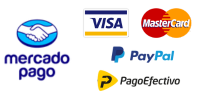
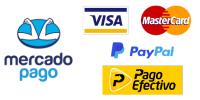
carousel y footer acabado con responsive

diff --git a/client_users/src/components/footer/Footer.jsx b/client_users/src/components/footer/Footer.jsx
@@ -1,5 +1,4 @@
 import Logo from "../../assets/images/LogoCompletoBlanco.png"
-import Henry from "../../assets/images/HenryLogo.png"
 import MetodosPago from '../../assets/images/MetodosDePago.png';
 import { FontAwesomeIcon } from '@fortawesome/react-fontawesome'
 import { faMapLocationDot, faLocationDot, faEnvelope, faPhone, faClock, faCalendar, faMoneyBill1Wave } from '@fortawesome/free-solid-svg-icons'
@@ -12,12 +11,20 @@ const Footer = () => {
           <section className="logo">
             <img src={Logo} alt="" />
             <div className="redes">
-              <svg fill="#000000" width="800px" height="800px" viewBox="0 0 24 24" xmlns="http://www.w3.org/2000/svg">
-                <path d="M12 2.03998C6.5 2.03998 2 6.52998 2 12.06C2 17.06 5.66 21.21 10.44 21.96V14.96H7.9V12.06H10.44V9.84998C10.44 7.33998 11.93 5.95998 14.22 5.95998C15.31 5.95998 16.45 6.14998 16.45 6.14998V8.61998H15.19C13.95 8.61998 13.56 9.38998 13.56 10.18V12.06H16.34L15.89 14.96H13.56V21.96C15.9164 21.5878 18.0622 20.3855 19.6099 18.57C21.1576 16.7546 22.0054 14.4456 22 12.06C22 6.52998 17.5 2.03998 12 2.03998Z"/>
-              </svg>
-              <svg width="800px" height="800px" viewBox="0 0 24 24" fill="none" xmlns="http://www.w3.org/2000/svg">
-                <path fill-rule="evenodd" clip-rule="evenodd" d="M2 6C2 3.79086 3.79086 2 6 2H18C20.2091 2 22 3.79086 22 6V18C22 20.2091 20.2091 22 18 22H6C3.79086 22 2 20.2091 2 18V6ZM6 4C4.89543 4 4 4.89543 4 6V18C4 19.1046 4.89543 20 6 20H18C19.1046 20 20 19.1046 20 18V6C20 4.89543 19.1046 4 18 4H6ZM12 9C10.3431 9 9 10.3431 9 12C9 13.6569 10.3431 15 12 15C13.6569 15 15 13.6569 15 12C15 10.3431 13.6569 9 12 9ZM7 12C7 9.23858 9.23858 7 12 7C14.7614 7 17 9.23858 17 12C17 14.7614 14.7614 17 12 17C9.23858 17 7 14.7614 7 12ZM17.5 8C18.3284 8 19 7.32843 19 6.5C19 5.67157 18.3284 5 17.5 5C16.6716 5 16 5.67157 16 6.5C16 7.32843 16.6716 8 17.5 8Z" fill="#000000"/>
-              </svg>
+              <a href="https://www.facebook.com" target="_blank">
+                <svg fill="#D5A129" width="32" height="30" viewBox="0 0 24 24" xmlns="http://www.w3.org/2000/svg">
+                  <path d="M12 2.03998C6.5 2.03998 2 6.52998 2 12.06C2 17.06 5.66 21.21 10.44 21.96V14.96H7.9V12.06H10.44V9.84998C10.44 7.33998 11.93 5.95998 14.22 5.95998C15.31 5.95998 16.45 6.14998 16.45 6.14998V8.61998H15.19C13.95 8.61998 13.56 9.38998 13.56 10.18V12.06H16.34L15.89 14.96H13.56V21.96C15.9164 21.5878 18.0622 20.3855 19.6099 18.57C21.1576 16.7546 22.0054 14.4456 22 12.06C22 6.52998 17.5 2.03998 12 2.03998Z"/>
+                </svg>
+              </a>
+              <a href="https://www.instagram.com" target="_blank">
+                <svg width="32" height="30" viewBox="0 0 192 192" xmlns="http://www.w3.org/2000/svg" fill="none"><path stroke="#D5A129" stroke-width="12" d="M96 162c-14.152 0-24.336-.007-32.276-.777-7.849-.761-12.87-2.223-16.877-4.741a36 36 0 0 1-11.33-11.329c-2.517-4.007-3.98-9.028-4.74-16.877C30.007 120.336 30 110.152 30 96c0-14.152.007-24.336.777-32.276.76-7.849 2.223-12.87 4.74-16.877a36 36 0 0 1 11.33-11.33c4.007-2.517 9.028-3.98 16.877-4.74C71.663 30.007 81.847 30 96 30c14.152 0 24.336.007 32.276.777 7.849.76 12.87 2.223 16.877 4.74a36 36 0 0 1 11.329 11.33c2.518 4.007 3.98 9.028 4.741 16.877.77 7.94.777 18.124.777 32.276 0 14.152-.007 24.336-.777 32.276-.761 7.849-2.223 12.87-4.741 16.877a36 36 0 0 1-11.329 11.329c-4.007 2.518-9.028 3.98-16.877 4.741-7.94.77-18.124.777-32.276.777Z"/><circle cx="96" cy="96" r="30" stroke="#D5A129" stroke-width="12"/><circle cx="135" cy="57" r="9" fill="#D5A129"/></svg>
+              </a>
+              <a href="https://www.twitter.com" target="_blank">
+                <svg fill="#D5A129" xmlns="http://www.w3.org/2000/svg" preserveAspectRatio="xMidYMid" width="28" height="25"
+                    viewBox="0 0 31.812 26">
+                    <path d="M20.877,2.000 C22.519,2.000 24.382,2.652 25.426,3.738 C26.724,3.486 27.949,3.025 29.050,2.386 C28.625,3.687 27.718,4.779 26.540,5.469 C27.693,5.332 28.797,5.035 29.820,4.590 C29.054,5.707 28.087,6.690 26.971,7.477 C26.981,7.715 26.987,7.955 26.987,8.195 C26.987,15.562 21.445,24.000 10.939,24.000 C7.715,24.000 4.507,23.133 1.982,21.551 C2.428,21.605 2.883,21.631 3.343,21.631 C6.019,21.631 8.482,20.740 10.439,19.242 C7.937,19.199 5.827,17.586 5.103,15.373 C5.450,15.437 5.810,15.473 6.178,15.473 C6.696,15.473 7.203,15.406 7.681,15.277 C5.068,14.768 3.100,12.514 3.100,9.813 C3.100,9.787 3.100,9.764 3.100,9.740 C3.871,10.158 4.750,10.410 5.687,10.440 C4.154,9.437 3.147,7.734 3.147,5.799 C3.147,4.777 3.428,3.818 3.919,2.998 C6.735,6.367 10.945,8.588 15.693,8.822 C15.594,8.414 15.543,7.984 15.543,7.553 C15.543,4.473 17.721,2.000 20.877,2.000 M29.820,4.590 L29.825,4.590 M20.877,-0.000 C17.033,-0.000 14.060,2.753 13.614,6.552 C10.425,5.905 7.524,4.204 5.440,1.711 C5.061,1.257 4.503,0.998 3.919,0.998 C3.867,0.998 3.815,1.000 3.763,1.004 C3.123,1.055 2.547,1.413 2.216,1.966 C1.525,3.122 1.159,4.447 1.159,5.799 C1.159,6.700 1.321,7.579 1.625,8.400 C1.300,8.762 1.113,9.238 1.113,9.740 L1.113,9.813 C1.113,11.772 1.882,13.589 3.160,14.952 C3.087,15.294 3.103,15.655 3.215,15.998 C3.657,17.348 4.459,18.510 5.499,19.396 C4.800,19.552 4.079,19.631 3.343,19.631 C2.954,19.631 2.577,19.609 2.222,19.565 C2.141,19.556 2.061,19.551 1.981,19.551 C1.148,19.551 0.391,20.078 0.108,20.886 C-0.202,21.770 0.140,22.753 0.932,23.249 C3.764,25.023 7.318,26.000 10.939,26.000 C17.778,26.000 22.025,22.843 24.383,20.195 C27.243,16.984 28.907,12.718 28.972,8.455 C29.899,7.682 30.717,6.790 31.410,5.792 C31.661,5.458 31.810,5.041 31.810,4.590 C31.810,3.909 31.473,3.308 30.958,2.946 C31.181,2.176 30.925,1.342 30.303,0.833 C29.940,0.537 29.496,0.386 29.049,0.386 C28.708,0.386 28.365,0.474 28.056,0.654 C27.391,1.040 26.680,1.344 25.931,1.562 C24.555,0.592 22.688,-0.000 20.877,-0.000 L20.877,-0.000 Z"/>
+                </svg>
+              </a>
             </div>
           </section>
           <section className="information">

diff --git a/client_users/src/components/footer/Footer.css b/client_users/src/components/footer/Footer.css
@@ -1,27 +1,46 @@
 footer {
     width: 100%;
-    padding: 40px;
+    padding: 50px;
+    background-color: rgb(10, 10, 10);
+    color: rgb(213,161,41);
+    /* box-shadow: 1px 1px 8px rgb(148, 146, 146) inset; */
 }
 
 .container-footer {
     /* border: 1px solid red; */
-    display: grid;
-    grid-template-columns: repeat(4, 1fr);
+    display: flex;
+    flex-direction: row;
+    justify-content: space-between;
+    flex-wrap: wrap;
+    width: 90%;
+    margin: 0 auto;
+    gap: 80px;
 }
 
 /* .container-footer section {
-    border: 1px solid blue;
+    border: 1px solid white;
 } */
 
 .container-footer .logo {
     display: flex;
+    flex-direction: column;
     align-items: center;
     justify-content: center;
+    gap: 10px;
 }
 
 .container-footer .logo img {
     background-color: #000;
     width: 220px;
+}
+
+.container-footer .logo .redes {
+    display: flex;
+    gap: 15px;
+}
+
+.container-footer .logo .redes a:hover {
+    transform: scale(1.1);
 }
 
 .container-footer .information,
@@ -35,16 +54,17 @@ footer {
 .container-footer .information h3,
 .container-footer .horaries h3,
 .container-footer .payments h3 {
-    font-size: 1.5rem;
+    font-size: 1.2rem;
+    color: #fff;
 }
 
 .container-footer .information p,
 .container-footer .horaries p {
-    font-size: 1rem;
-    opacity: 0.8;
+    font-size: 0.9rem;
+    opacity: 0.9;
 }
 
 .container-footer .payments img {
-    width: 95%;
+    width: 100%;
     height: 110px;
 }
